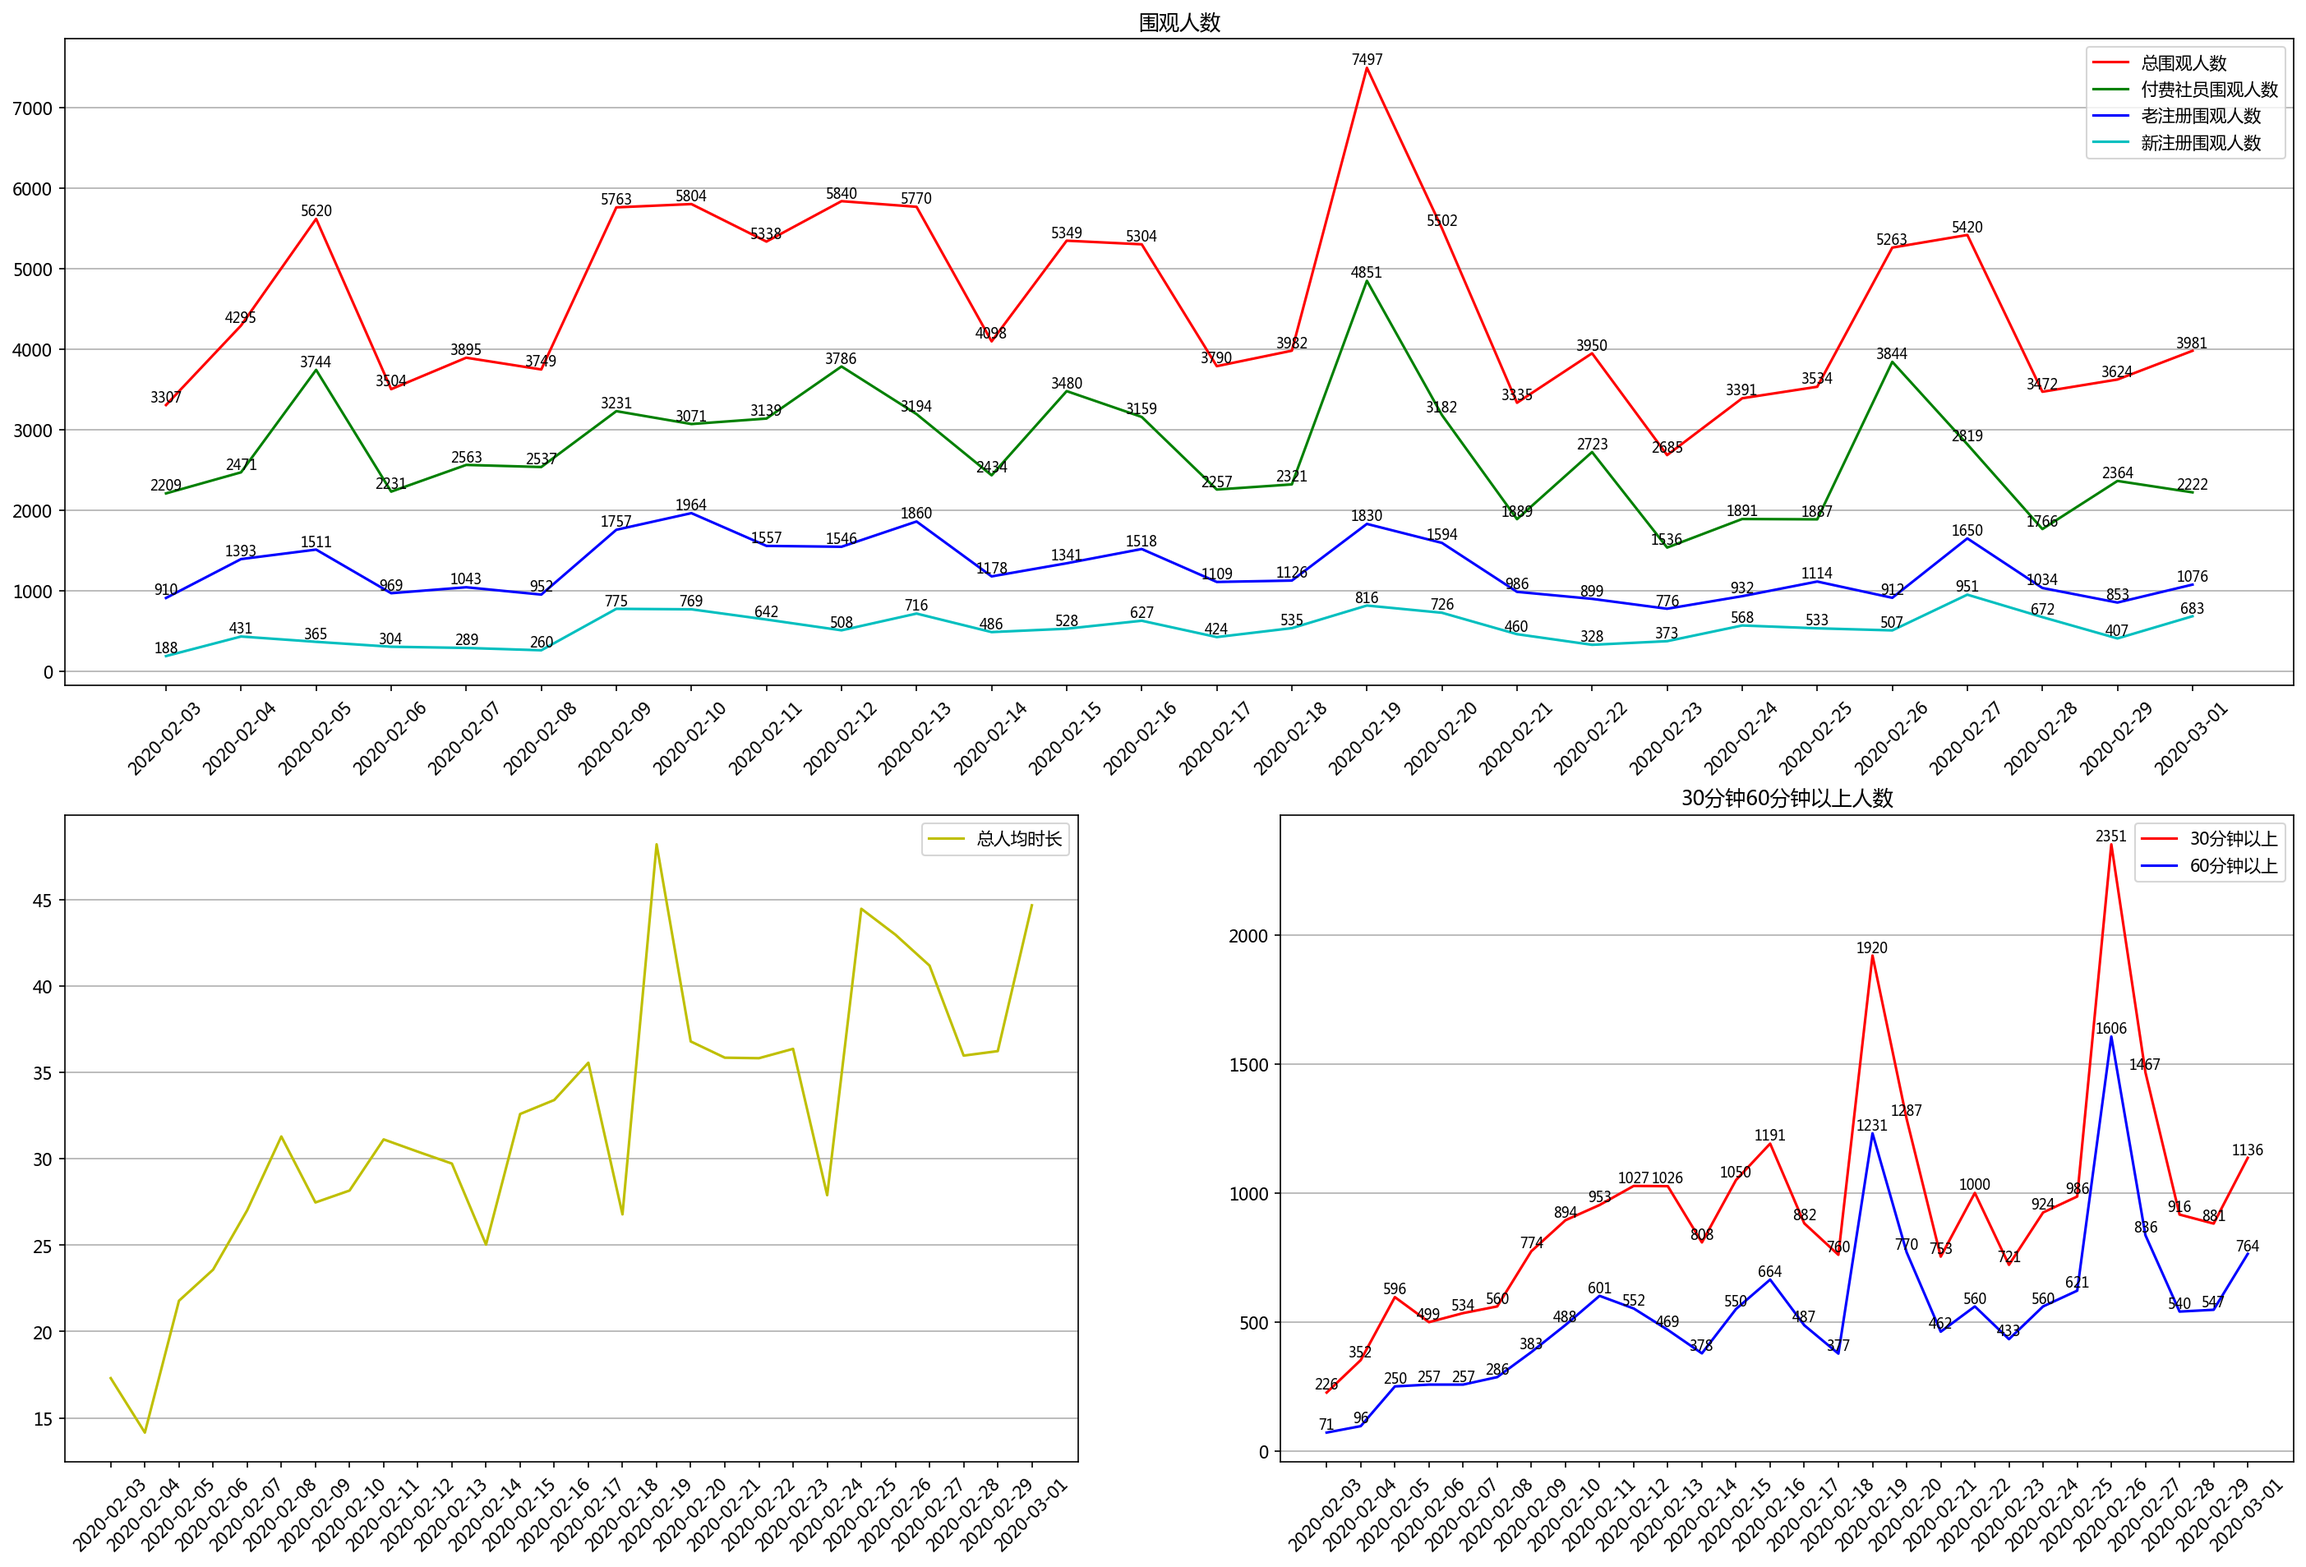
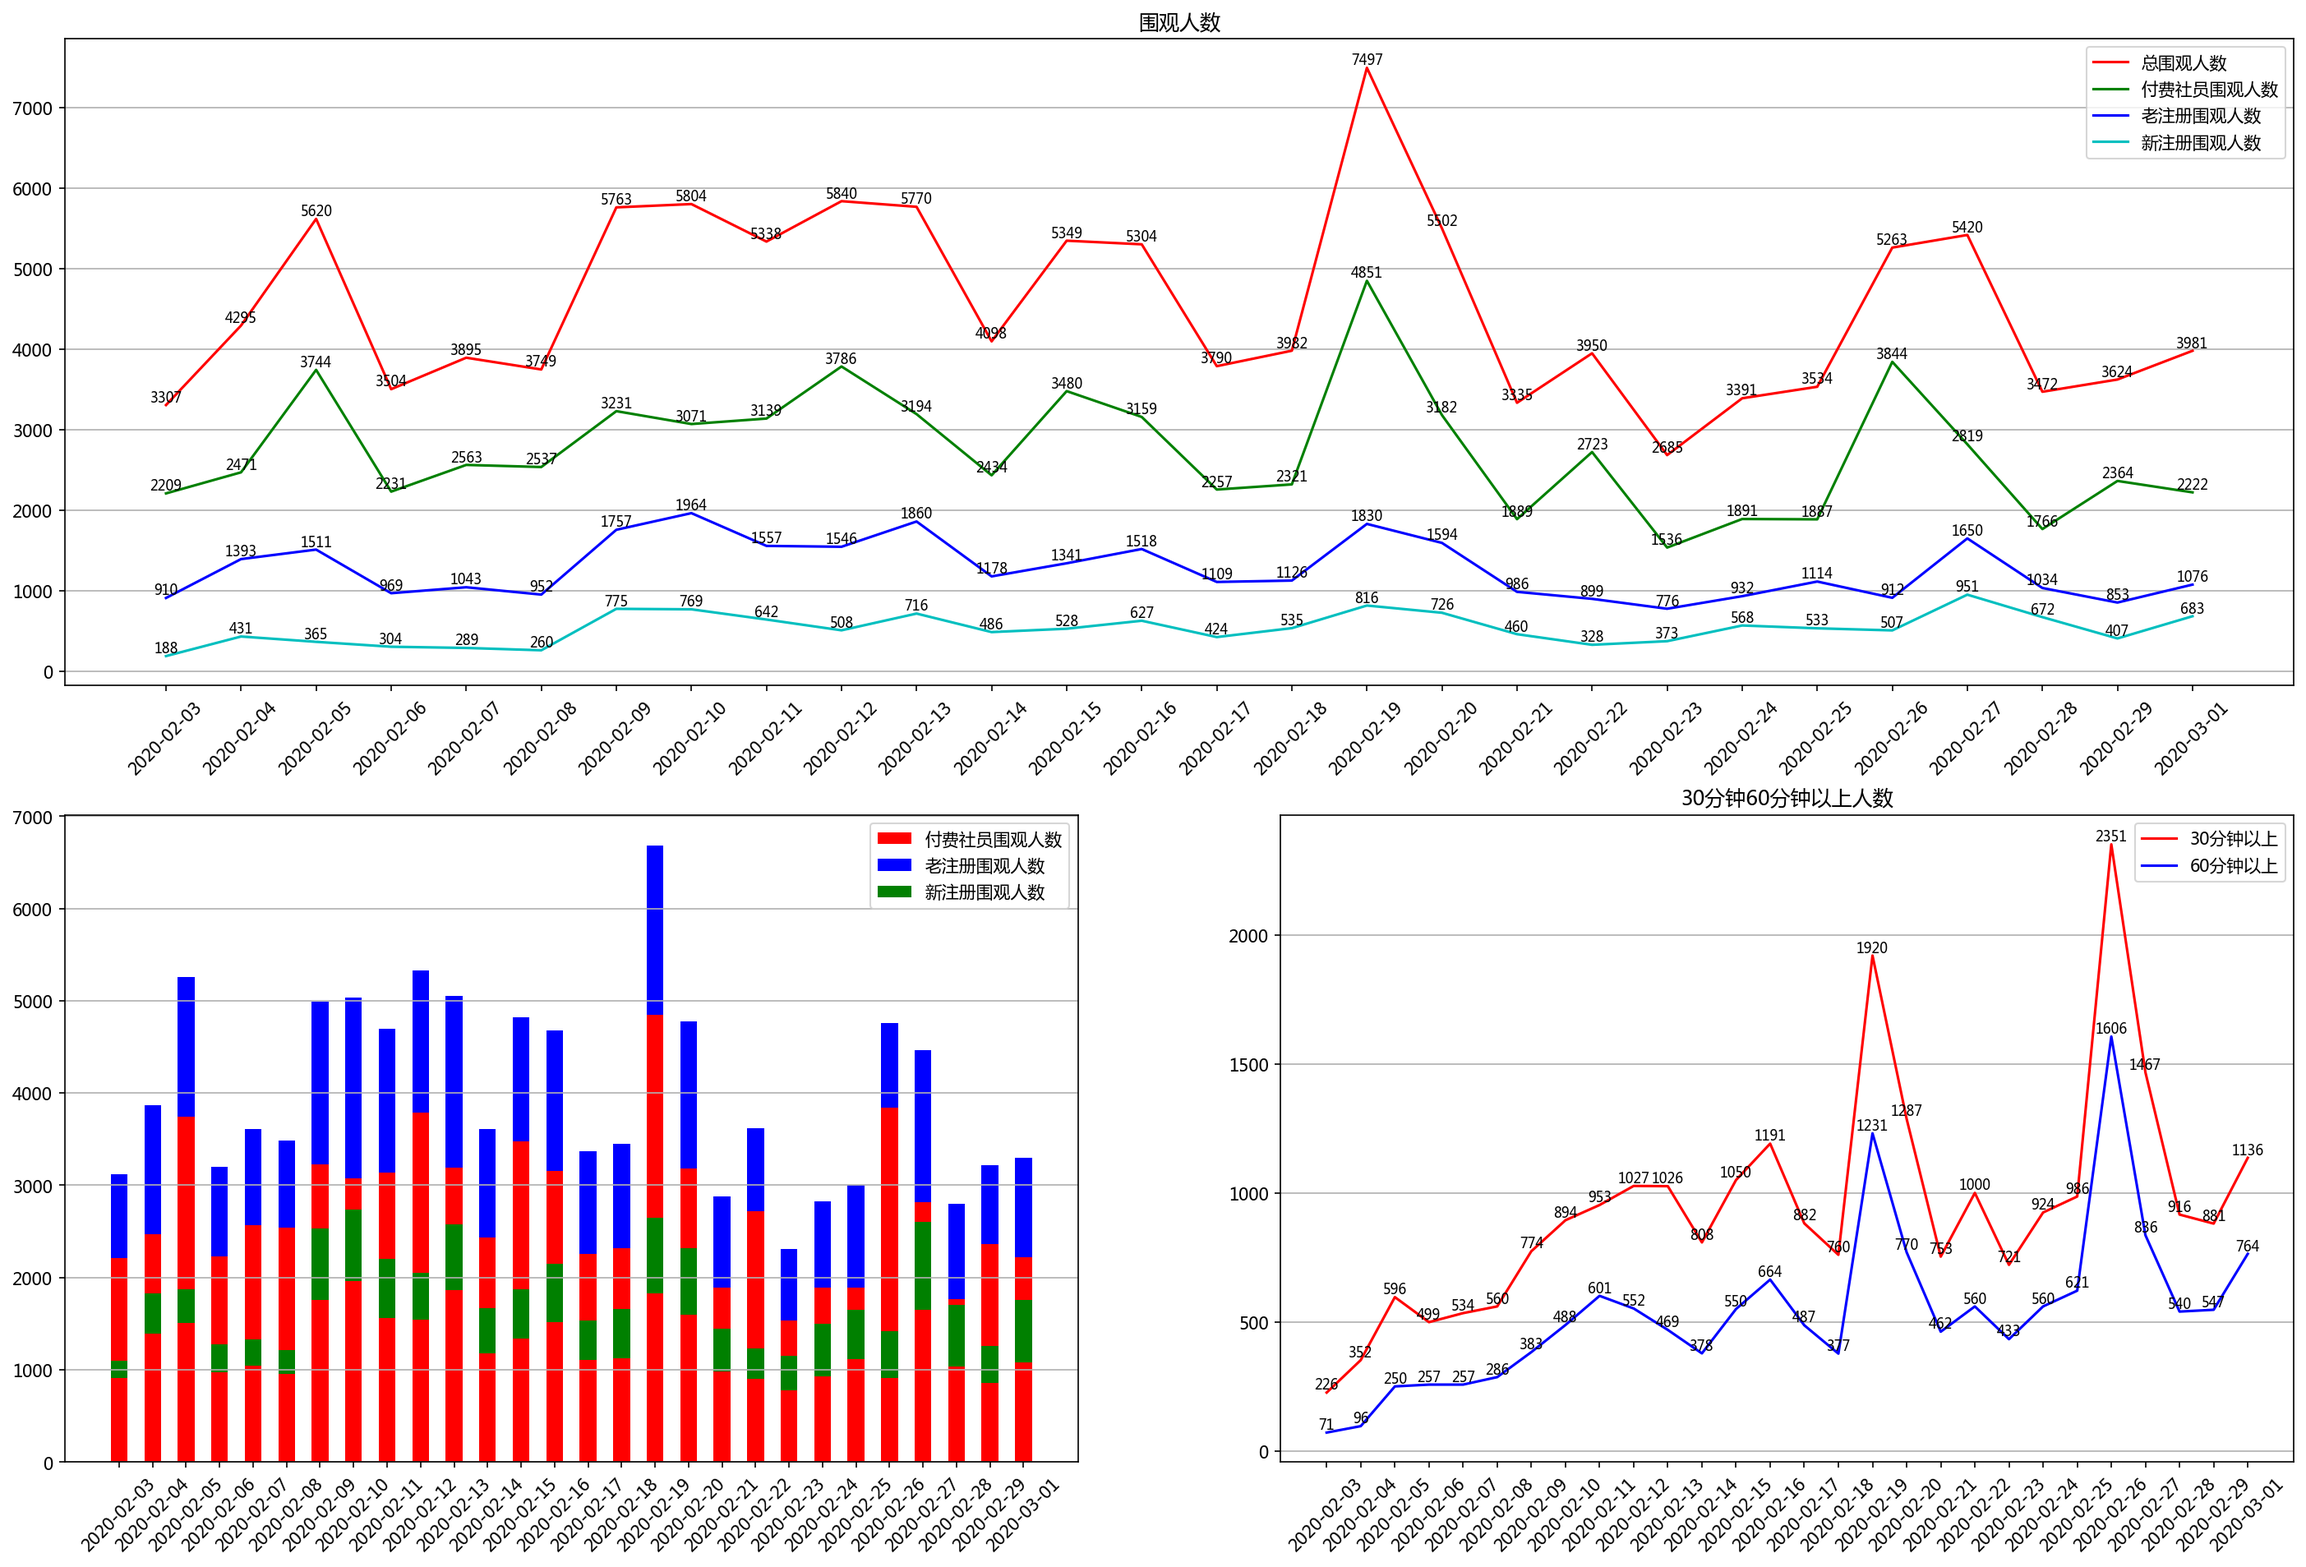
绘制人员图像

diff --git a/Matplotlib.py b/Matplotlib.py
@@ -55,7 +55,10 @@ def onlooker_count(count_df,time_df):
 
     #添加围观人数分布图像
     plt.subplot(2, 2, 3)
-    plt.plot(count_df['日期'],count_df['总人均时长'],'y-',label='总人均时长')
+    x = np.array(count_df['日期'])
+    plt.bar(x, count_df['付费社员围观人数'], width=0.5, color='red', label='付费社员围观人数')
+    plt.bar(x, count_df['老注册围观人数'], width=0.5, color='blue', label='老注册围观人数', bottom=count_df['付费社员围观人数'])
+    plt.bar(x, count_df['新注册围观人数'], width=0.5, color='green', label='新注册围观人数', bottom=count_df['老注册围观人数'])
     plt.xticks(rotation=45)
     plt.grid(axis='y')
     # 添加图例
@@ -86,15 +89,9 @@ def onlooker_count(count_df,time_df):
     plt.savefig('围观人数.png',dpi=150,bbox_inches='tight')
     plt.show()
 
-
 count_df = pd.read_excel(path, sheet_name='主题维度分人群数据')
 time_df = pd.read_excel(path,sheet_name='平均时长分布')
-#onlooker_count(count_df,time_df)
+onlooker_count(count_df,time_df)
 
-x = np.array(count_df['日期'])
 
-plt.bar(x, count_df['付费社员围观人数'], width=0.5, color='red', label='付费社员围观人数')
-plt.bar(x, count_df['老注册围观人数'], width=0.5, color='blue', label='老注册围观人数',bottom=count_df['付费社员围观人数'])
-plt.bar(x,count_df['新注册围观人数'],width=0.5,color='green',label='新注册围观人数',bottom=count_df['老注册围观人数'])
 
-plt.show()

diff --git a/test.py b/test.py
@@ -3,18 +3,3 @@ import pandas as pd
 import numpy as np
 import os
 import random
-
-dic = {}
-str = '黑化肥发灰会挥发，灰化肥挥发会发黑'
-for i in str:
-    print (i)
-    if i in dic:
-        dic[i]+=1
-        # n = dic[i] + 1
-        # dic[i] = n
-    else:
-        dic[i] = 1
-print (dic)
-
-
-
